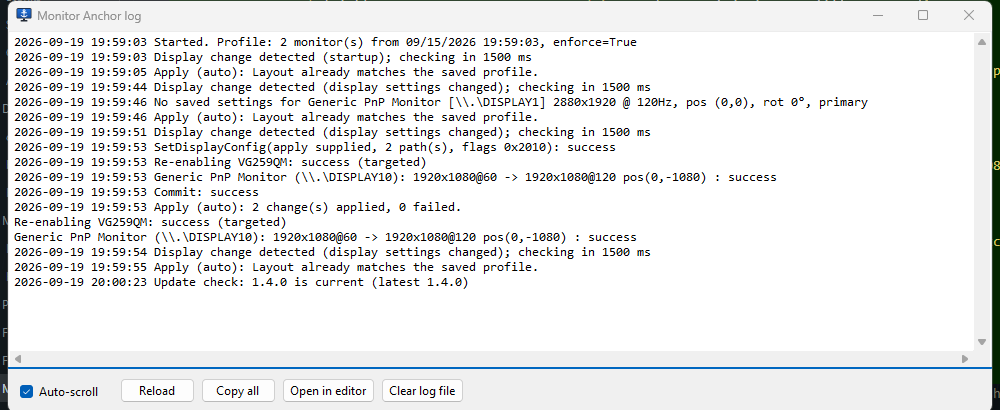
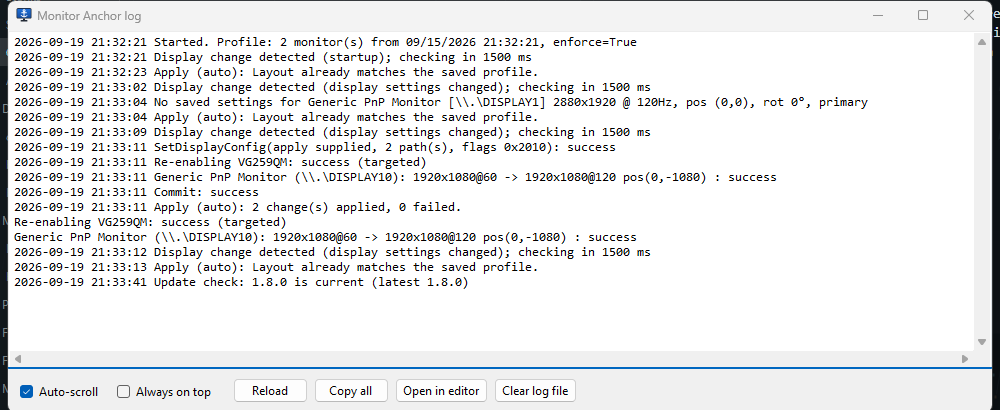
Group idle behaviours into a "When idle" submenu; 1.8.0
The mouse behaviour is now one of three (leave alone / nudge in place /
hover over every window, which includes the nudge), poking Remote
Desktop sessions is a separate checkbox, and the idle threshold has
presets. Behaviour lines in the main menu drop from eight to five.

diff --git a/TrayApp.cs b/TrayApp.cs
@@ -31,6 +31,8 @@ public sealed class TrayApp : ApplicationContext
     private readonly ToolStripMenuItem _jiggleItem;
     private readonly ToolStripMenuItem _rdpItem;
     private readonly ToolStripMenuItem _tourItem;
+    private readonly ToolStripMenuItem _mouseOffItem;
+    private readonly ToolStripMenuItem _idleAfterMenu;
     private readonly ToolStripMenuItem _wuStatusItem;
     private readonly ToolStripMenuItem _wuMenu;
     private readonly Jiggler _jiggler = new();
@@ -79,13 +81,30 @@ public sealed class TrayApp : ApplicationContext
         _enforceItem = new ToolStripMenuItem("Enforce layout on display changes", null, (_, _) => ToggleEnforce()) { CheckOnClick = false };
         _startupItem = new ToolStripMenuItem("Start with Windows", null, (_, _) => ToggleStartup()) { CheckOnClick = false };
         _keepAwakeItem = new ToolStripMenuItem("Keep displays awake (never sleep)", null, (_, _) => ToggleKeepAwake()) { CheckOnClick = false };
-        _jiggleItem = new ToolStripMenuItem("Jiggle mouse when idle", null, (_, _) => ToggleJiggle()) { CheckOnClick = false };
+        // Everything that happens while you are idle lives in one submenu. The mouse choice is one-of-three
+        // (hovering over every window already includes a nudge); poking Remote Desktop is separate because it
+        // also takes focus and presses a key.
+        if (_settings.WiggleAllWindows) _settings.JiggleWhenIdle = false; // hover subsumes nudge
         _jiggler.IdleThreshold = TimeSpan.FromSeconds(Math.Max(10, _settings.JiggleIdleSeconds));
         _jiggler.JiggleMouse = _settings.JiggleWhenIdle;
-        _rdpItem = new ToolStripMenuItem("Keep Remote Desktop sessions alive when idle", null, (_, _) => ToggleRdp()) { CheckOnClick = false };
-        _jiggler.KeepRdpAlive = _settings.KeepRdpAlive;
-        _tourItem = new ToolStripMenuItem("Wiggle mouse over every window when idle", null, (_, _) => ToggleTour()) { CheckOnClick = false };
         _jiggler.WiggleAllWindows = _settings.WiggleAllWindows;
+        _jiggler.KeepRdpAlive = _settings.KeepRdpAlive;
+
+        _mouseOffItem = new ToolStripMenuItem("Leave the mouse alone", null, (_, _) => SetMouseMode(nudge: false, hover: false)) { CheckOnClick = false };
+        _jiggleItem = new ToolStripMenuItem("Nudge the mouse in place", null, (_, _) => SetMouseMode(nudge: true, hover: false)) { CheckOnClick = false };
+        _tourItem = new ToolStripMenuItem("Hover over every window (includes a nudge)", null, (_, _) => SetMouseMode(nudge: false, hover: true)) { CheckOnClick = false };
+        _rdpItem = new ToolStripMenuItem("Also poke Remote Desktop sessions (focus + F15)", null, (_, _) => ToggleRdp()) { CheckOnClick = false };
+        _idleAfterMenu = new ToolStripMenuItem("Count as idle after");
+        foreach (var (label, seconds) in new[] { ("30 seconds", 30), ("1 minute", 60), ("2 minutes", 120), ("5 minutes", 300), ("10 minutes", 600) })
+            _idleAfterMenu.DropDownItems.Add(new ToolStripMenuItem(label, null, (_, _) => SetIdleSeconds(seconds)) { Tag = seconds });
+        var idleMenu = new ToolStripMenuItem("When idle");
+        idleMenu.DropDownItems.Add(_mouseOffItem);
+        idleMenu.DropDownItems.Add(_jiggleItem);
+        idleMenu.DropDownItems.Add(_tourItem);
+        idleMenu.DropDownItems.Add(new ToolStripSeparator());
+        idleMenu.DropDownItems.Add(_rdpItem);
+        idleMenu.DropDownItems.Add(new ToolStripSeparator());
+        idleMenu.DropDownItems.Add(_idleAfterMenu);
 
         // Windows Update pause lives in its own submenu; every action prompts for administrator approval.
         _wuStatusItem = new ToolStripMenuItem("Status") { Enabled = false };
@@ -124,9 +143,7 @@ public sealed class TrayApp : ApplicationContext
 
         menu.Items.Add(_enforceItem);
         menu.Items.Add(_keepAwakeItem);
-        menu.Items.Add(_jiggleItem);
-        menu.Items.Add(_rdpItem);
-        menu.Items.Add(_tourItem);
+        menu.Items.Add(idleMenu);
         menu.Items.Add(fakeMenu);
         menu.Items.Add(_wuMenu);
         menu.Items.Add(new ToolStripSeparator());
@@ -511,9 +528,12 @@ public sealed class TrayApp : ApplicationContext
         foreach (ToolStripMenuItem item in _delayMenu.DropDownItems)
             item.Checked = (int)item.Tag! == _settings.StandInDelaySeconds;
         _autoUpdateItem.Checked = _settings.AutoUpdate;
+        _mouseOffItem.Checked = !_settings.JiggleWhenIdle && !_settings.WiggleAllWindows;
         _jiggleItem.Checked = _settings.JiggleWhenIdle;
-        _rdpItem.Checked = _settings.KeepRdpAlive;
         _tourItem.Checked = _settings.WiggleAllWindows;
+        _rdpItem.Checked = _settings.KeepRdpAlive;
+        foreach (ToolStripMenuItem item in _idleAfterMenu.DropDownItems)
+            item.Checked = (int)item.Tag! == _settings.JiggleIdleSeconds;
         var pausedUntil = WindowsUpdate.PausedUntil();
         _wuStatusItem.Text = pausedUntil == null ? "Updates are not paused" : $"Paused until {pausedUntil:g}";
         _checkUpdatesItem.Enabled = !_checkingUpdates;
@@ -557,12 +577,23 @@ public sealed class TrayApp : ApplicationContext
         _debounce.Start();
     }
 
-    private void ToggleJiggle()
+    private void SetMouseMode(bool nudge, bool hover)
     {
-        _settings.JiggleWhenIdle = !_settings.JiggleWhenIdle;
+        _settings.JiggleWhenIdle = nudge;
+        _settings.WiggleAllWindows = hover;
         _settings.Save();
-        _jiggler.JiggleMouse = _settings.JiggleWhenIdle;
-        Log.Write($"JiggleWhenIdle = {_settings.JiggleWhenIdle} (after {_settings.JiggleIdleSeconds} s idle)");
+        _jiggler.JiggleMouse = nudge;
+        _jiggler.WiggleAllWindows = hover;
+        Log.Write($"When idle, mouse: {(hover ? "hover over every window" : nudge ? "nudge in place" : "leave alone")} (after {_settings.JiggleIdleSeconds} s idle)");
+        RefreshMenu();
+    }
+
+    private void SetIdleSeconds(int seconds)
+    {
+        _settings.JiggleIdleSeconds = seconds;
+        _settings.Save();
+        _jiggler.IdleThreshold = TimeSpan.FromSeconds(seconds);
+        Log.Write($"JiggleIdleSeconds = {seconds}");
         RefreshMenu();
     }
 
@@ -573,15 +604,6 @@ public sealed class TrayApp : ApplicationContext
         _jiggler.KeepRdpAlive = _settings.KeepRdpAlive;
         var sessions = RemoteDesktop.FindSessions();
         Log.Write($"KeepRdpAlive = {_settings.KeepRdpAlive} (after {_settings.JiggleIdleSeconds} s idle; {sessions.Count} Remote Desktop window(s) open now)");
-        RefreshMenu();
-    }
-
-    private void ToggleTour()
-    {
-        _settings.WiggleAllWindows = !_settings.WiggleAllWindows;
-        _settings.Save();
-        _jiggler.WiggleAllWindows = _settings.WiggleAllWindows;
-        Log.Write($"WiggleAllWindows = {_settings.WiggleAllWindows} (after {_settings.JiggleIdleSeconds} s idle)");
         RefreshMenu();
     }
 
@@ -780,7 +802,7 @@ public sealed class TrayApp : ApplicationContext
 
         _menu.Show(new Point(200, 200));
         Application.DoEvents();
-        var fake = _menu.Items.OfType<ToolStripMenuItem>().First(i => i.Text == "Fake monitors");
+        var fake = _menu.Items.OfType<ToolStripMenuItem>().First(i => i.Text == "When idle");
         fake.ShowDropDown();
         Application.DoEvents();
         System.Threading.Thread.Sleep(200);

diff --git a/README.md b/README.md
@@ -86,9 +86,9 @@ that reconnects. Monitor Anchor keeps the monitor identities and layout stable s
 | --- | --- |
 | Enforce layout on display changes | Automatic restore. Off = the app just sits there. On by default. |
 | Keep displays awake | Hold the display and system idle timers so the screens never turn off. On by default. |
-| Jiggle mouse when idle | After 60 s without keyboard or mouse input, nudges the mouse one pixel and back every half minute so the session and presence indicators keep seeing activity. Off by default. |
-| Keep Remote Desktop sessions alive when idle | After 60 s idle, every open Remote Desktop window (mstsc, the Windows App, or hosts like mRemoteNG that embed the Remote Desktop control), full-screen or windowed, is brought to the front in turn and sent F15, a key no application uses, so each remote session sees input and never idles or locks. The window you had in front is restored afterwards. Minimised sessions cannot receive input and are skipped. Off by default. |
-| Wiggle mouse over every window when idle | After 60 s idle, the cursor visits every visible window in turn, hovers over it and nudges, without changing focus, so anything that watches for mouse movement (VNC, Citrix, browser-based sessions, chat presence) sees activity. Fully covered windows are skipped. The cursor goes back where it was. Off by default. |
+| When idle ▸ mouse | One of three: **Leave the mouse alone** (default), **Nudge the mouse in place** (one pixel and back every half minute, so the local session and presence indicators see activity), or **Hover over every window** (the cursor visits each visible window in turn, hovers and nudges without changing focus, so anything that watches for mouse movement such as VNC, Citrix, browser-based sessions or chat presence sees activity; fully covered windows are skipped; the cursor goes back where it was). Hovering includes the nudge, so they are alternatives, not additive. |
+| When idle ▸ Also poke Remote Desktop sessions | Independent of the mouse choice. Every open Remote Desktop window (mstsc, the Windows App, or hosts like mRemoteNG that embed the Remote Desktop control), full-screen or windowed, is brought to the front in turn, the cursor is parked over it and nudged, and F15 (a key no application uses) is pressed, so each remote session sees input and never idles or locks. The window you had in front and the cursor position are restored afterwards. Minimised sessions cannot receive input and are skipped. Off by default. |
+| When idle ▸ Count as idle after | 30 s, 1 min (default), 2, 5 or 10 minutes without keyboard or mouse input. |
 | Windows Update ▸ | Shows whether updates are paused and until when. Pause for 1 week, 5 weeks, 6 months or 1 year, or resume. Each action relaunches the app elevated for the registry write, so Windows asks for administrator approval. Writes the same pause window the Settings page does. |
 | Fake monitors ▸ Enabled | When a saved monitor is unplugged, a virtual monitor takes its place at the same resolution and position so the desktop keeps its shape. Off by default; needs the Parsec Virtual Display Driver. |
 | Fake monitors ▸ Delay before a fake monitor appears | Immediately, 5 s, 15 s, 1 min or 5 min (default 10 s). Keeps a quick KVM switch from creating and tearing down fake monitors. |
